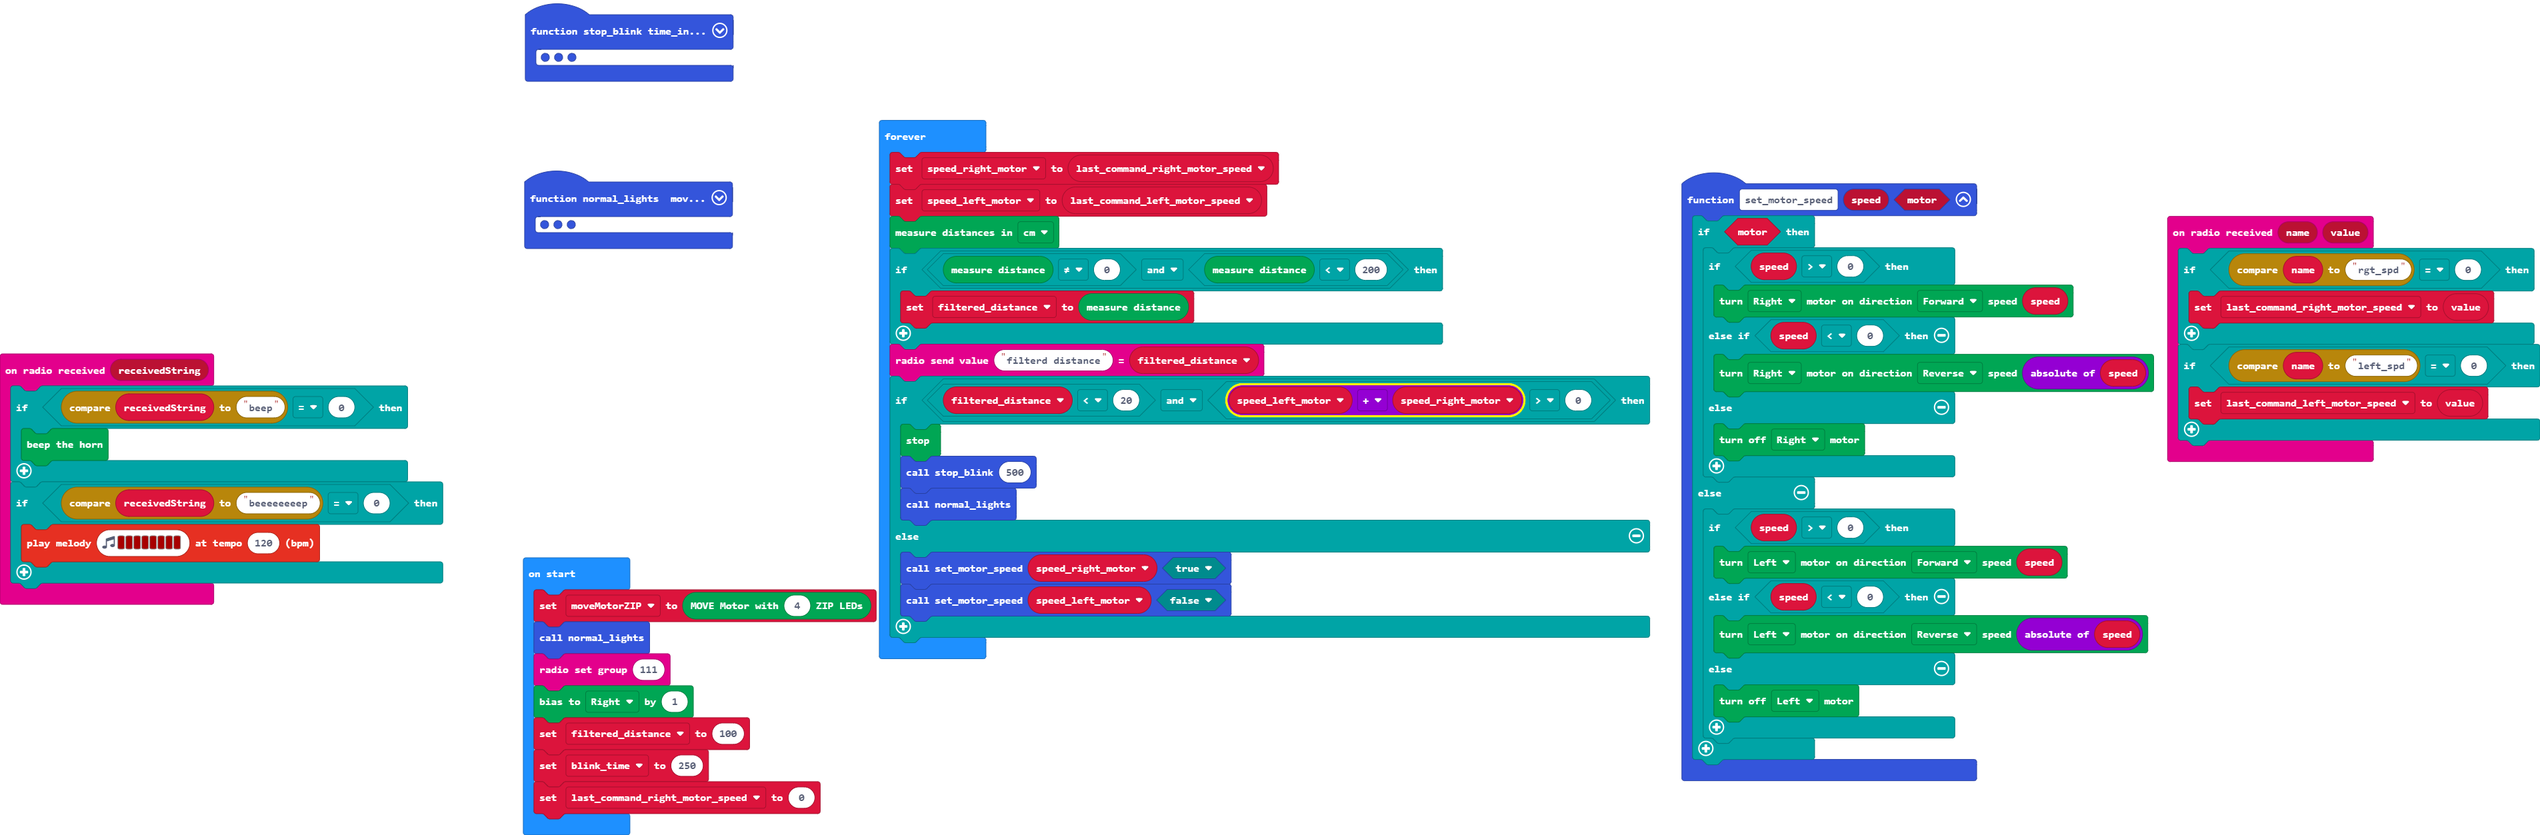
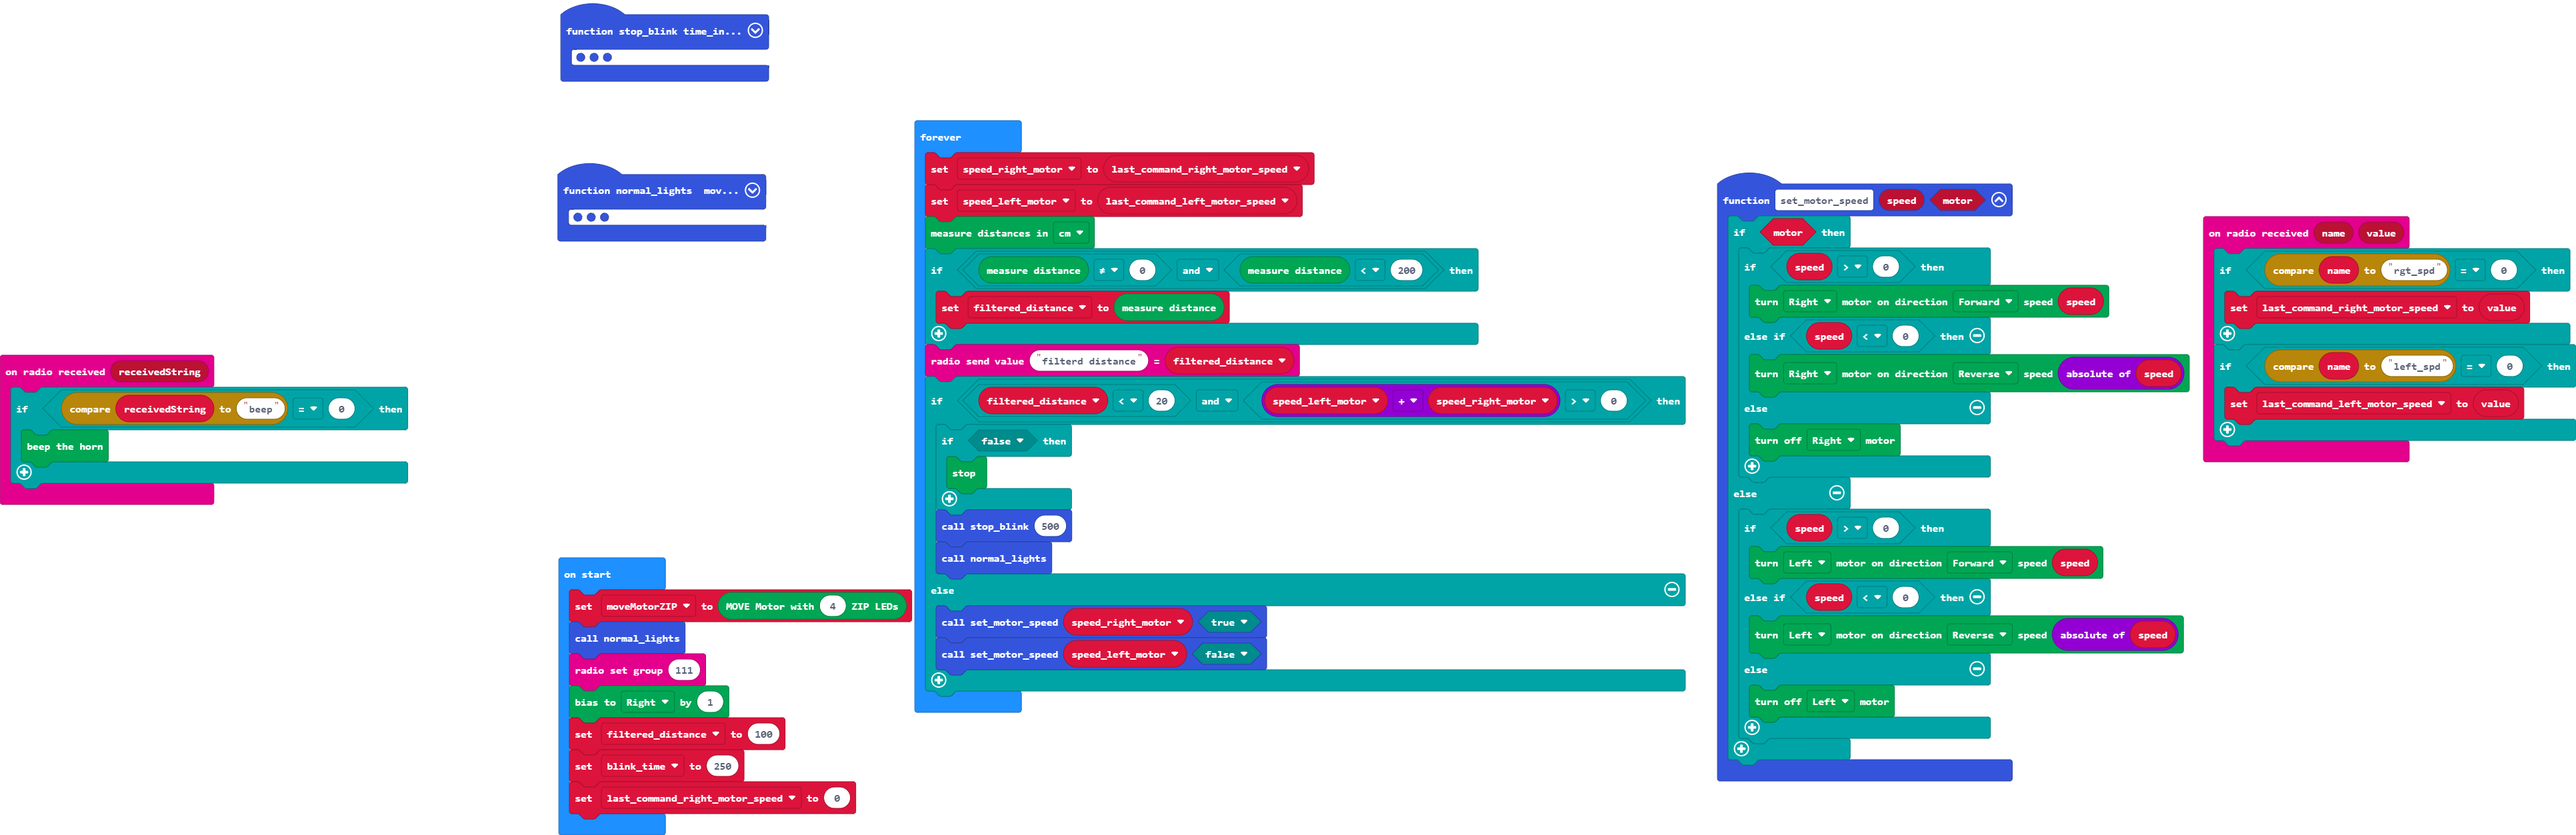
v1.1 - canceled stop on dist sensor

diff --git a/main.ts b/main.ts
@@ -43,9 +43,6 @@ radio.onReceivedString(function (receivedString) {
     if (receivedString.compare("beep") == 0) {
         Kitronik_Move_Motor.beepHorn()
     }
-    if (receivedString.compare("beeeeeeeep") == 0) {
-        music.playMelody("C5 C5 C5 C5 C5 C5 C5 C5 ", 120)
-    }
 })
 radio.onReceivedValue(function (name, value) {
     if (name.compare("rgt_spd") == 0) {
@@ -77,7 +74,9 @@ basic.forever(function () {
     }
     radio.sendValue("filterd distance", filtered_distance)
     if (filtered_distance < 20 && speed_left_motor + speed_right_motor > 0) {
-        Kitronik_Move_Motor.stop()
+        if (false) {
+            Kitronik_Move_Motor.stop()
+        }
         stop_blink(500)
         normal_lights()
     } else {
